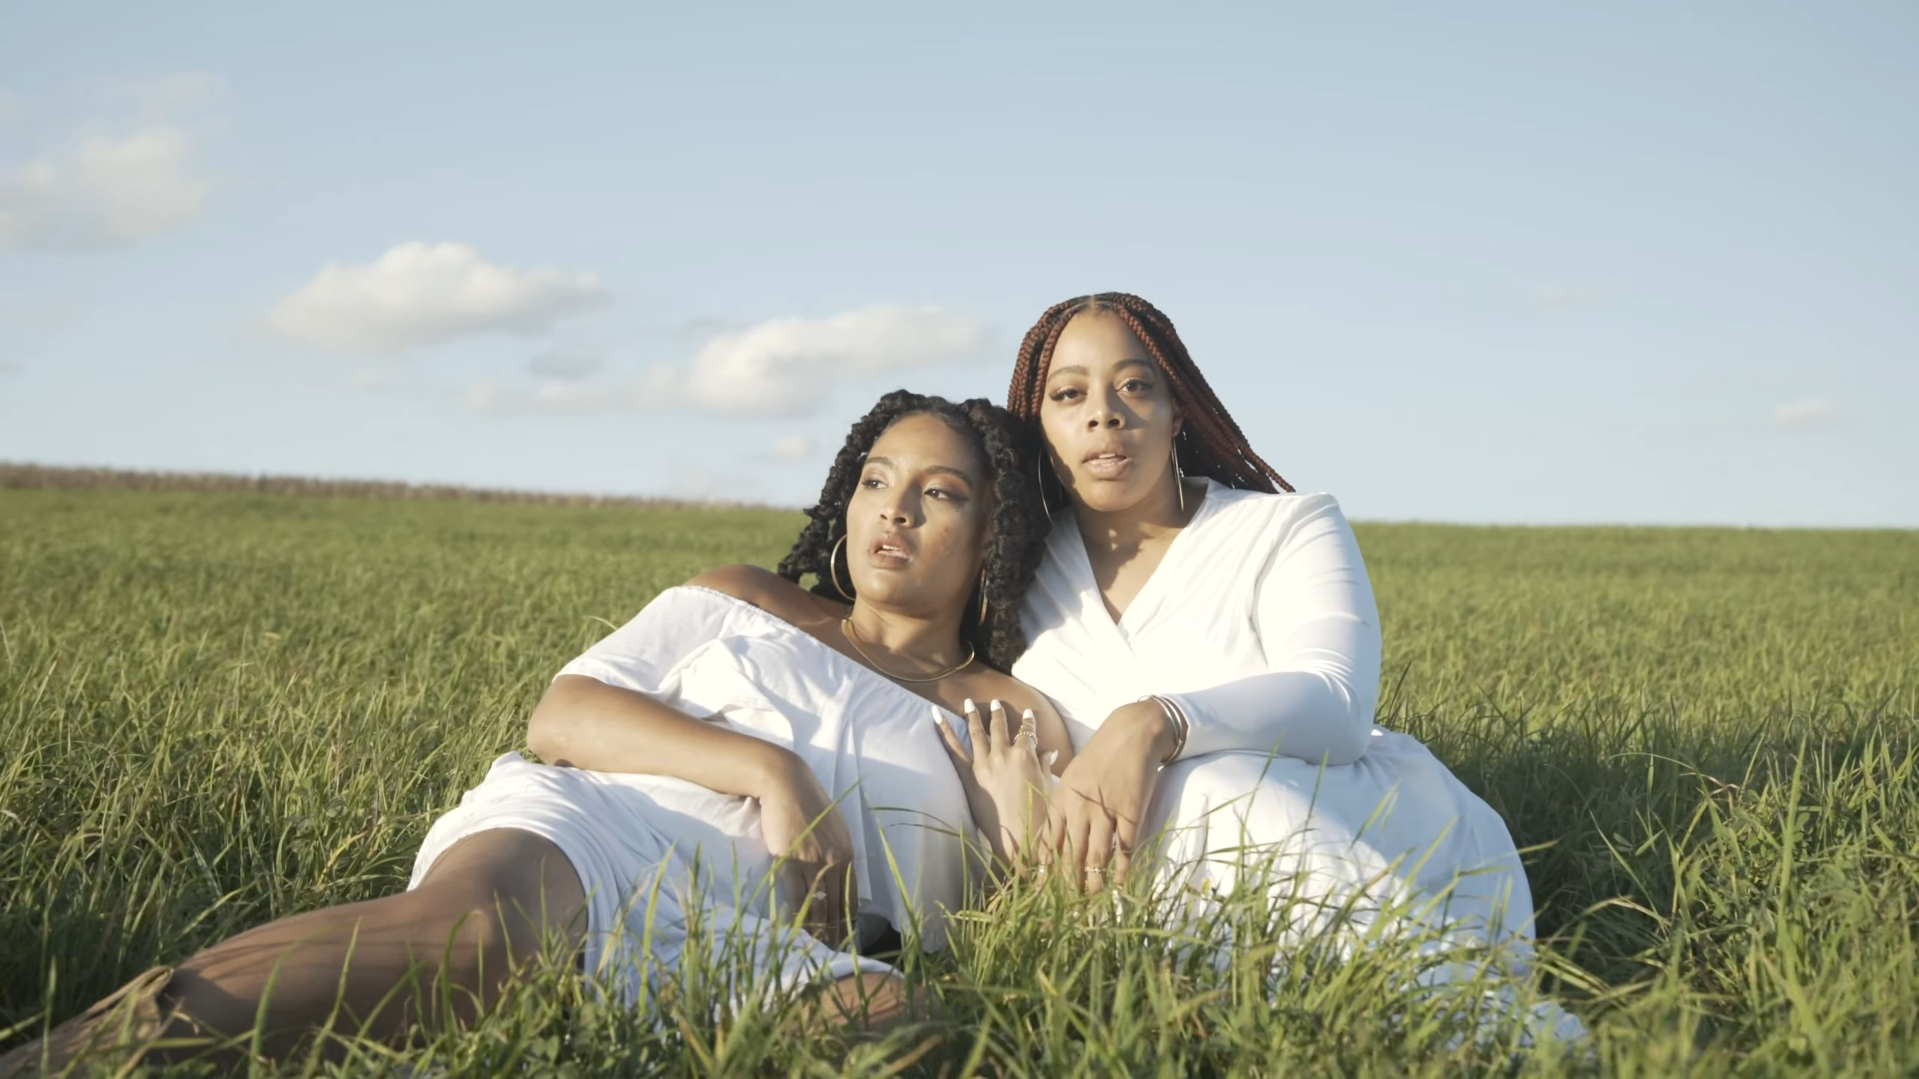
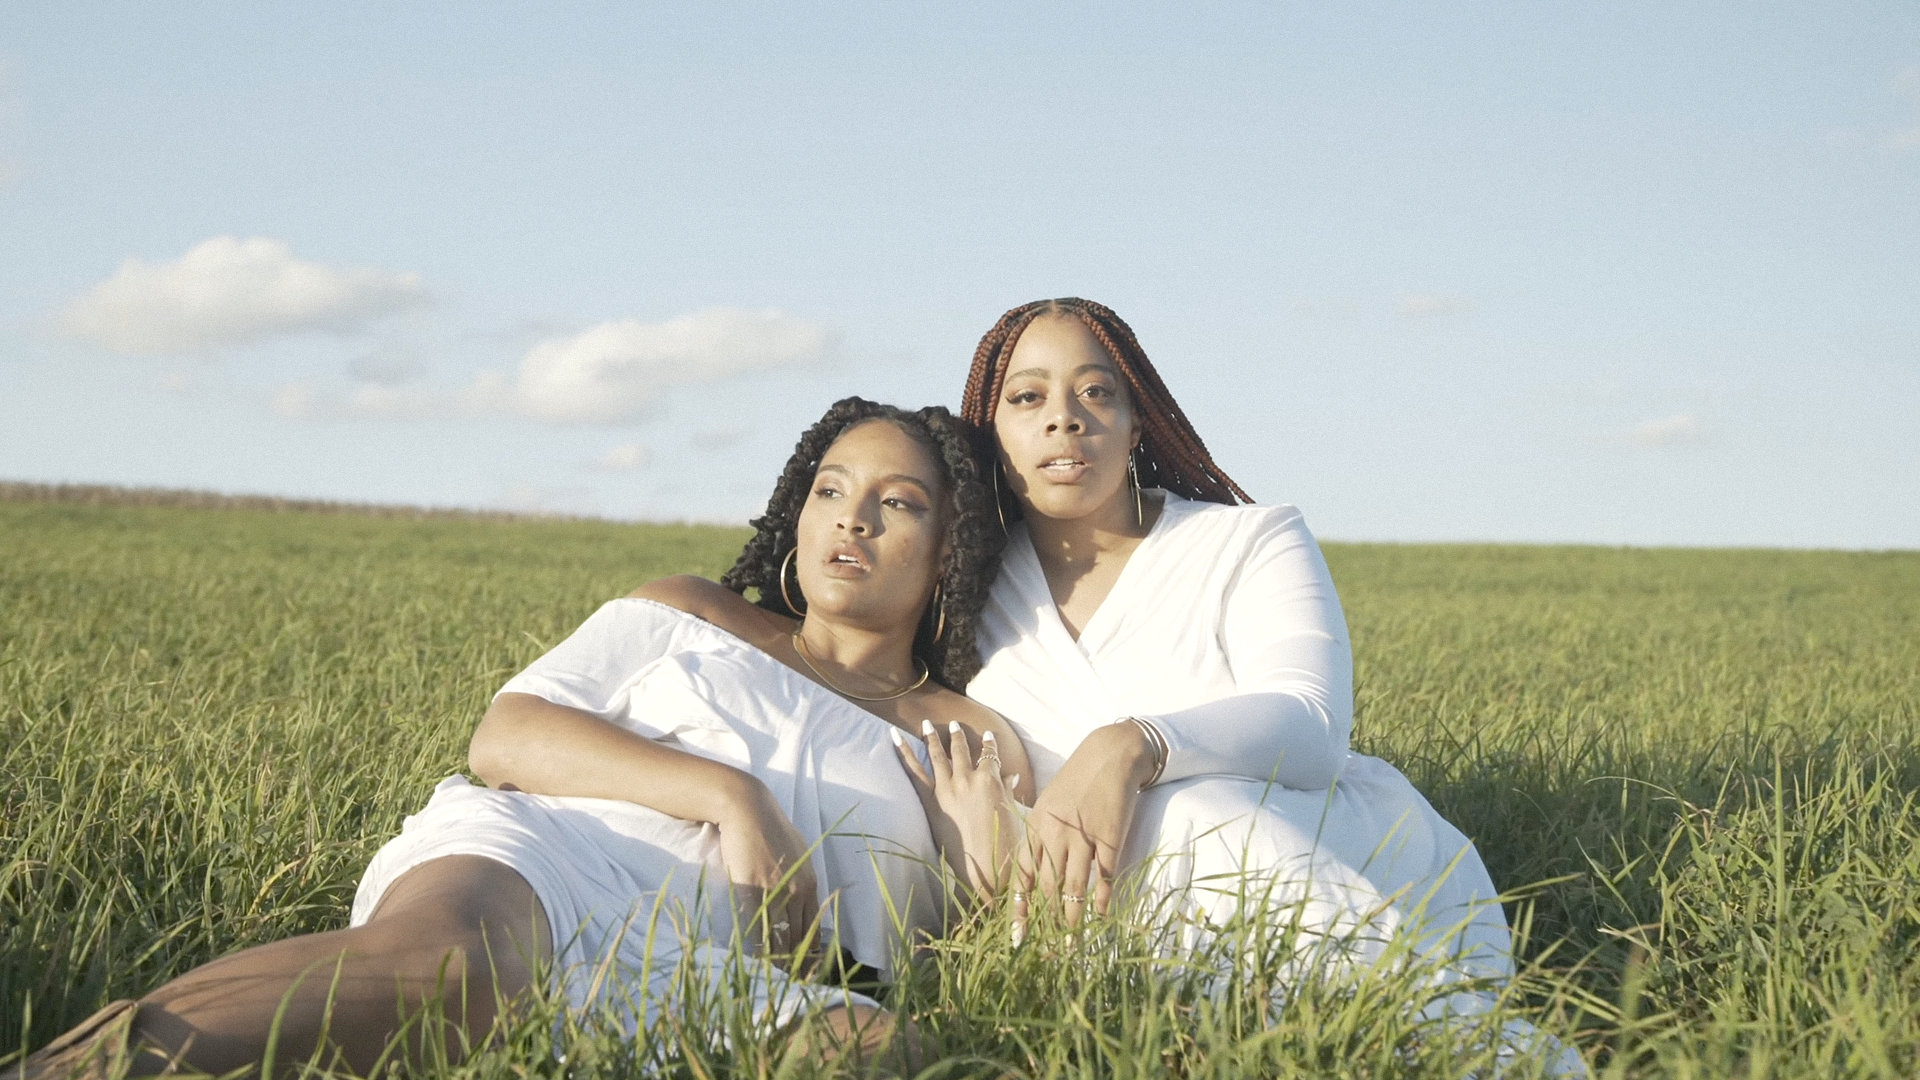
BlackBerries added, updated video links, new thumbnails from Matt's sheet
Adds BlackBerries to Narrative (5th item, was previously excluded for
having no YouTube link) and updates Go For A Punch's link to the one
Matt's spreadsheet flagged as changed.

Swaps in new thumbnails for Clouds, Katrina, Jazz Time, Beauty In
Imperfections, Enter The Void, Adapt, MYB Radio, and Tuff It Out from
Matt's "Thumbnails" Drive folder (the rest of that folder's images were
byte-identical to what's already committed, so nothing else changed) - the
last three also switch from .webp to .png since that's the format Matt's
new exports came in.

Claude-Session: https://claude.ai/code/session_017BMeDd5jUaqPNMzzQcEYuT

diff --git a/src/content/narrative/items/blackberries.md b/src/content/narrative/items/blackberries.md
@@ -1,0 +1,9 @@
+---
+permalink: false
+image: "blackberries.png"
+order: 5
+alt: "BlackBerries film still"
+title: "BLACKBERRIES"
+credit: "Co-Dp, Editor, Music, VFX & Design"
+youtube_id: "UC0brmMt_20"
+---

diff --git a/src/content/narrative/items/go-for-a-punch.md b/src/content/narrative/items/go-for-a-punch.md
@@ -5,5 +5,5 @@ order: 3
 alt: "Go For A Punch (Teaser Trailer) film still"
 title: "GO FOR A PUNCH"
 credit: "Gaffer"
-youtube_id: "fkF_sy_yXSU"
+youtube_id: "ifIXcRMsVW8"
 ---

diff --git a/src/content/mv/items/tuff-it-out.md b/src/content/mv/items/tuff-it-out.md
@@ -1,6 +1,6 @@
 ---
 permalink: false
-image: "tuff-it-out.webp"
+image: "tuff-it-out.png"
 order: 3
 alt: "Tuff It Out music video still"
 title: "TUFF IT OUT"

diff --git a/src/content/mv/items/myb-radio.md b/src/content/mv/items/myb-radio.md
@@ -1,6 +1,6 @@
 ---
 permalink: false
-image: "myb-radio.webp"
+image: "myb-radio.png"
 order: 5
 alt: "MYB Radio music video still"
 title: "MYB RADIO"

diff --git a/src/content/mv/items/adapt.md b/src/content/mv/items/adapt.md
@@ -1,6 +1,6 @@
 ---
 permalink: false
-image: "adapt.webp"
+image: "adapt.png"
 order: 8
 alt: "Adapt music video still"
 title: "ADAPT"
